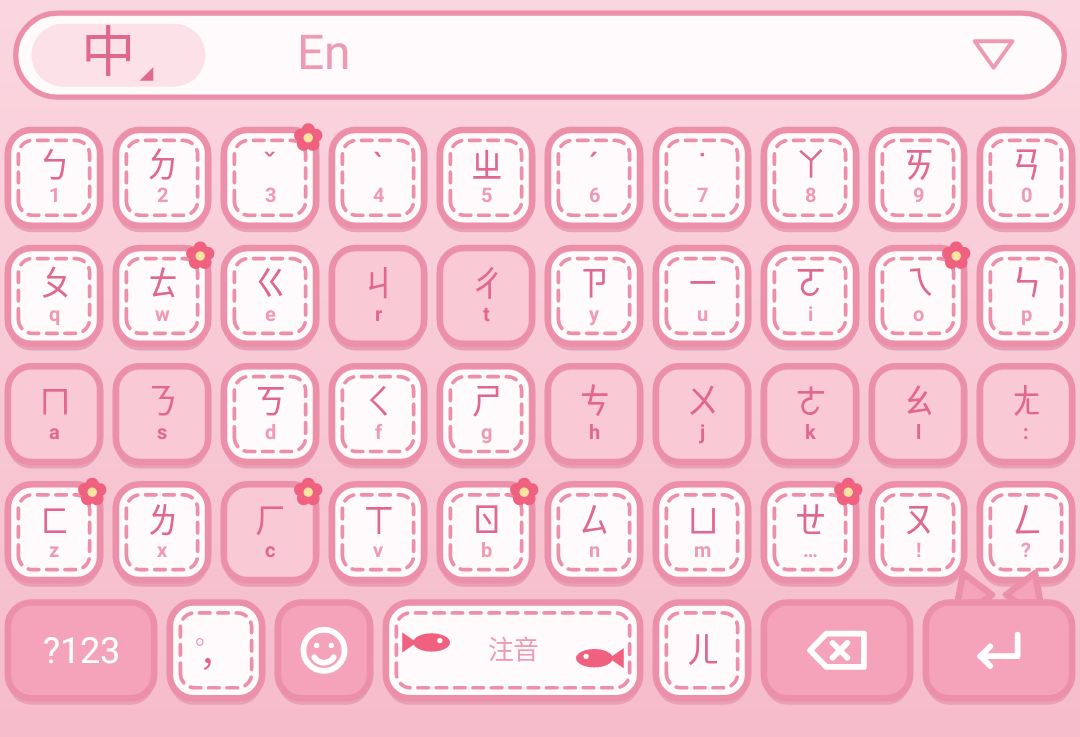
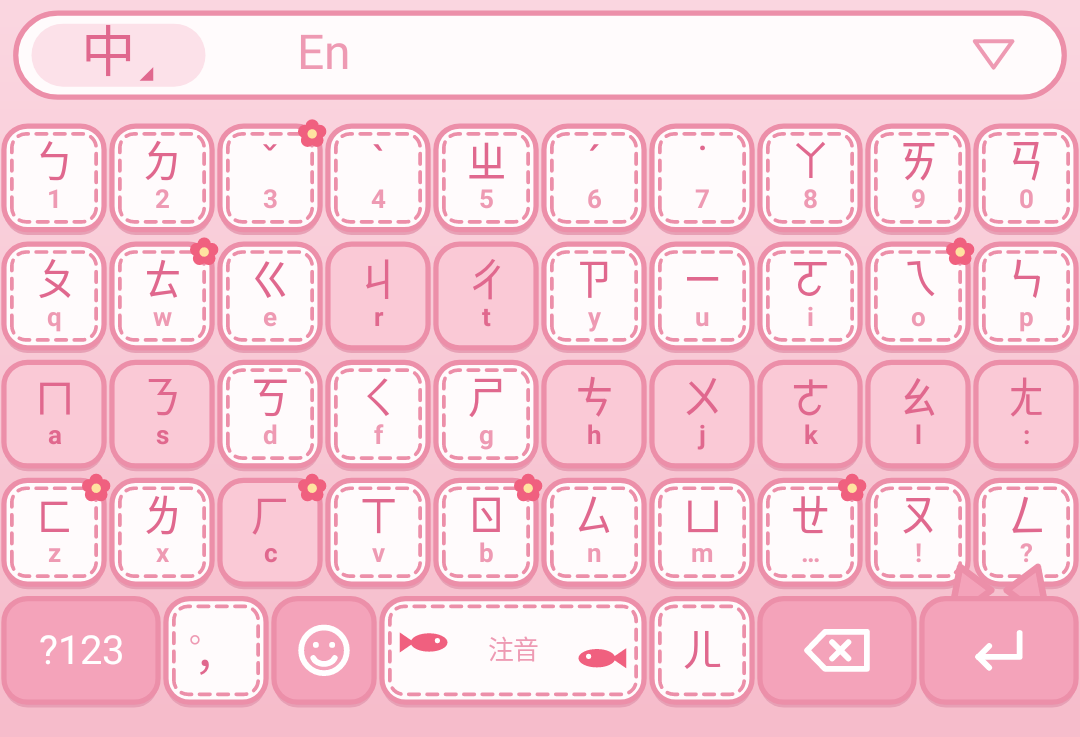
粉紅縫線：按鍵和字放大
- 鍵與鍵的空隙縮小一半、外框變細、縫線往外貼，按鍵本體更大
- 注音主字恢復成經典版的大小，小字放大並避開縫線
- 功能鍵圖示也跟經典版一樣大

Claude-Session: https://claude.ai/code/session_01YEi7AGz9LaiD389faVzAY6

Changed region(s): [[0.0, 0.156, 1.0, 0.9674], [0.9167, 0.8738, 0.9472, 0.905]]

diff --git a/app/src/main/java/io/github/yolanda1027/catpaw/Themes.kt b/app/src/main/java/io/github/yolanda1027/catpaw/Themes.kt
@@ -352,7 +352,8 @@ class StitchTheme(dp: Float) : KbTheme(dp) {
     override fun drawKey(c: Canvas, r: RectF, key: Key, label: String, pressed: Boolean, shift: Int, rowH: Float) {
         val n = seed(key, r)
         val sink = if (pressed) 1.5f * dp else 0f // 按下去會往下沉一點
-        val box = RectF(r.left + 3f * dp, r.top + 3.5f * dp + sink, r.right - 3f * dp, r.bottom - 5f * dp + sink)
+        // 鍵與鍵之間只留一點點縫，讓按鍵本體盡量大
+        val box = RectF(r.left + 1.5f * dp, r.top + 2f * dp + sink, r.right - 1.5f * dp, r.bottom - 3.5f * dp + sink)
         val rad = 9 * dp
 
         val solid = key.style == Style.FUNC || key.style == Style.ENTER || (key.style == Style.CHAR && n % 3 == 0)
@@ -378,12 +379,12 @@ class StitchTheme(dp: Float) : KbTheme(dp) {
         // 立體陰影 → 底色 → 外框
         if (!pressed) {
             fill.color = shadow
-            c.drawRoundRect(RectF(box.left, box.top + 2.5f * dp, box.right, box.bottom + 2.5f * dp), rad, rad, fill)
+            c.drawRoundRect(RectF(box.left, box.top + 2f * dp, box.right, box.bottom + 2f * dp), rad, rad, fill)
         }
         fill.color = face
         c.drawRoundRect(box, rad, rad, fill)
         stroke.color = border
-        stroke.strokeWidth = 2.5f * dp
+        stroke.strokeWidth = 2f * dp
         stroke.pathEffect = null
         c.drawRoundRect(box, rad, rad, stroke)
 
@@ -391,7 +392,7 @@ class StitchTheme(dp: Float) : KbTheme(dp) {
         if (!solid) {
             stroke.pathEffect = dash
             stroke.strokeWidth = 1.4f * dp
-            val inner = RectF(box.left + 4 * dp, box.top + 4 * dp, box.right - 4 * dp, box.bottom - 4 * dp)
+            val inner = RectF(box.left + 3 * dp, box.top + 3 * dp, box.right - 3 * dp, box.bottom - 3 * dp)
             c.drawRoundRect(inner, rad * 0.6f, rad * 0.6f, stroke)
             stroke.pathEffect = null
         }
@@ -399,16 +400,16 @@ class StitchTheme(dp: Float) : KbTheme(dp) {
         val content = RectF(box)
         when (key.style) {
             Style.CHAR -> {
-                // 字縮小一點、往中間收，才不會壓到縫線
+                // 字的大小跟經典版一樣
                 val sub = key.sub
                 if (sub != null && key.act == Act.ZHUYIN) {
-                    drawText(c, label, content.centerX(), content.centerY() - rowH * 0.1f, rowH * 0.3f, text)
-                    drawText(c, sub, content.centerX(), content.centerY() + rowH * 0.15f, rowH * 0.17f, if (solid) text else textDim, bold = true)
+                    drawText(c, label, content.centerX(), content.centerY() - rowH * 0.13f, rowH * 0.38f, text)
+                    drawText(c, sub, content.centerX(), content.centerY() + rowH * 0.18f, rowH * 0.22f, if (solid) text else textDim, bold = true)
                 } else {
-                    drawLabels(c, key, label, content.centerX(), content.centerY(), rowH * 0.8f, text, textDim)
+                    drawLabels(c, key, label, content.centerX(), content.centerY(), rowH, text, textDim)
                 }
             }
-            Style.FUNC, Style.ENTER -> drawFuncContent(c, key, label, content, shift, rowH * 0.9f, Color.WHITE)
+            Style.FUNC, Style.ENTER -> drawFuncContent(c, key, label, content, shift, rowH, Color.WHITE)
             Style.SPACE -> {
                 drawText(c, label, content.centerX(), content.centerY(), rowH * 0.22f, textDim)
                 drawFish(c, content.left + content.width() * 0.18f, content.centerY() - 3 * dp, 7 * dp, false)
